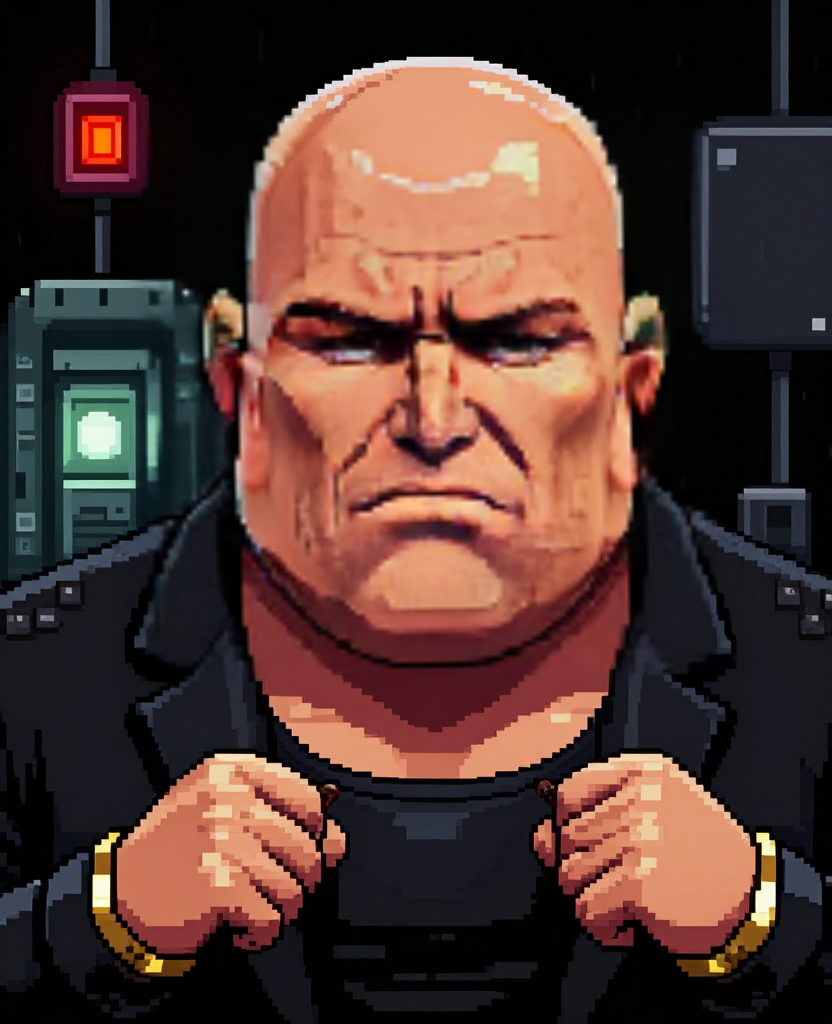
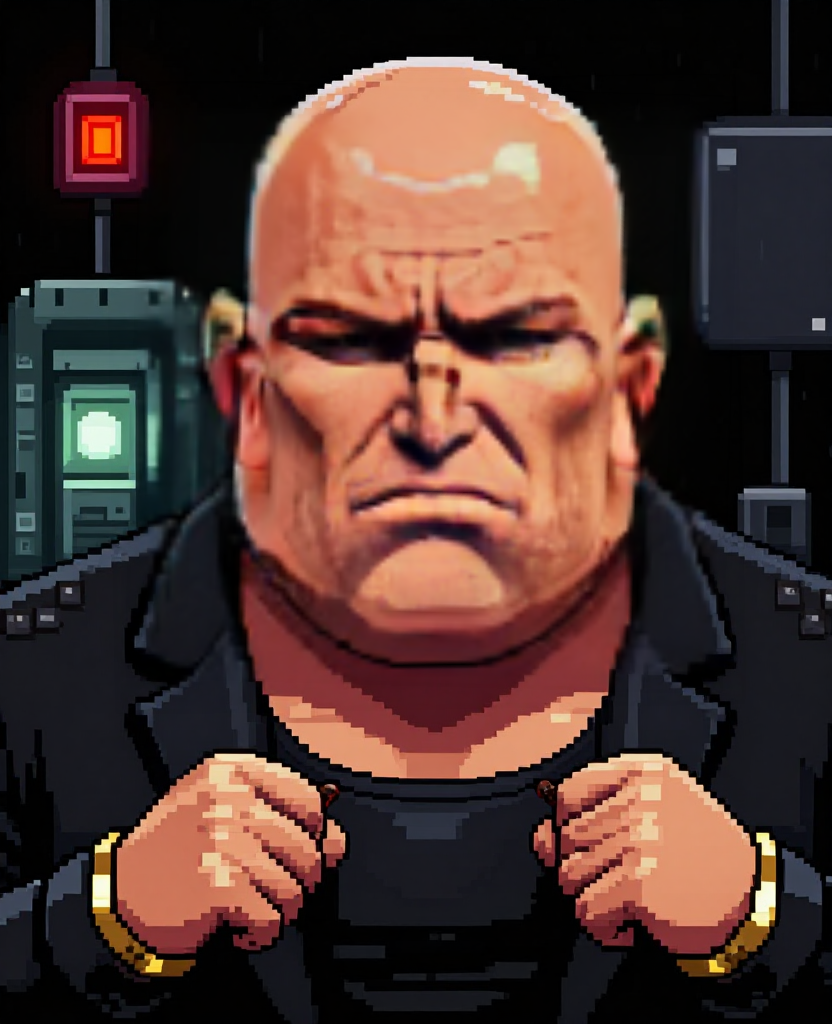
comfy.py: upload each reference under a unique name (all were ref.png, so ReActor used the wrong face); Level 3 faces swapped again with the right references

diff --git a/tools/comfy.py b/tools/comfy.py
@@ -39,7 +39,8 @@ def upload(path):
     if path in _uploaded:
         return _uploaded[path]
     boundary = uuid.uuid4().hex
-    name = os.path.basename(path)
+    # a unique name per file: every character reference is called ref.png, and one shared name made ReActor use the last upload
+    name = '_'.join(os.path.normpath(path).split(os.sep)[-2:])
     body = (f'--{boundary}\r\nContent-Disposition: form-data; name="image"; filename="{name}"\r\n'
             f'Content-Type: {mimetypes.guess_type(name)[0] or "image/png"}\r\n\r\n').encode() + open(path, 'rb').read() + \
            f'\r\n--{boundary}\r\nContent-Disposition: form-data; name="overwrite"\r\n\r\ntrue\r\n--{boundary}--\r\n'.encode()

diff --git a/docs/art/levels-3-8.md b/docs/art/levels-3-8.md
@@ -12,6 +12,12 @@ The art lead makes the comic panels, the dialog portraits and the character refe
 - **No text in the art.** Signs, labels, phone screens, notebooks, newspapers and the photo are blank. The game must draw any words in the caption boxes or as an overlay. For example: "Orfeo, Reserved: the Count", "Silence the bartender. - A.V.", "SILENT NIGHT", "Meridian Express, 23:40, Platform 9", "THE CHOIR EXPOSED", and the ELIAS GRAVE title.
 - **Faces.** ReActor puts the reference face on every panel where a recurring character's face shows, so Elias, Bell, Hale, Mags and each boss look the same in all levels.
 
+## Face-swap fix in tools/comfy.py
+
+Every character reference is called `ref.png`. `upload()` sent each one to ComfyUI under that same name and cached the name per path. In a batch that used two or more references, a later job could get the face that was uploaded last (for example, `mags_weak` came out with Hale's moustache). Now each upload has a unique name (`<folder>_<file>`). The Level 3-5 images were repaired: ReActor ran again on each finished image with the correct reference.
+
+Levels 1-2 were made with the old code. Look at the Level 1-2 panels and portraits that use two or more references in one jobs file (for example `metro.json`: Elias, Switch, Tinder, Hale) for wrong faces.
+
 ## Level 3: casino
 
 Panels and portraits follow section 9 of `03-house-always-wins.md`.
